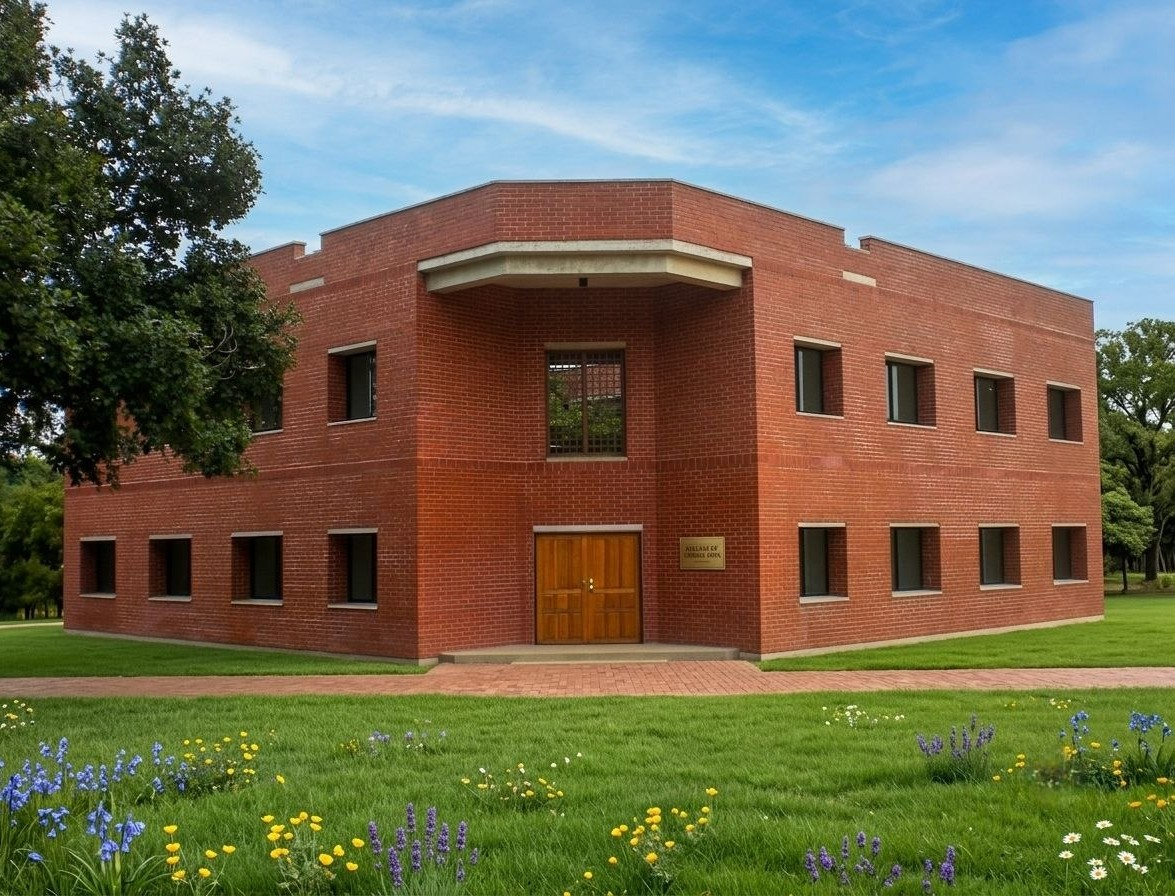
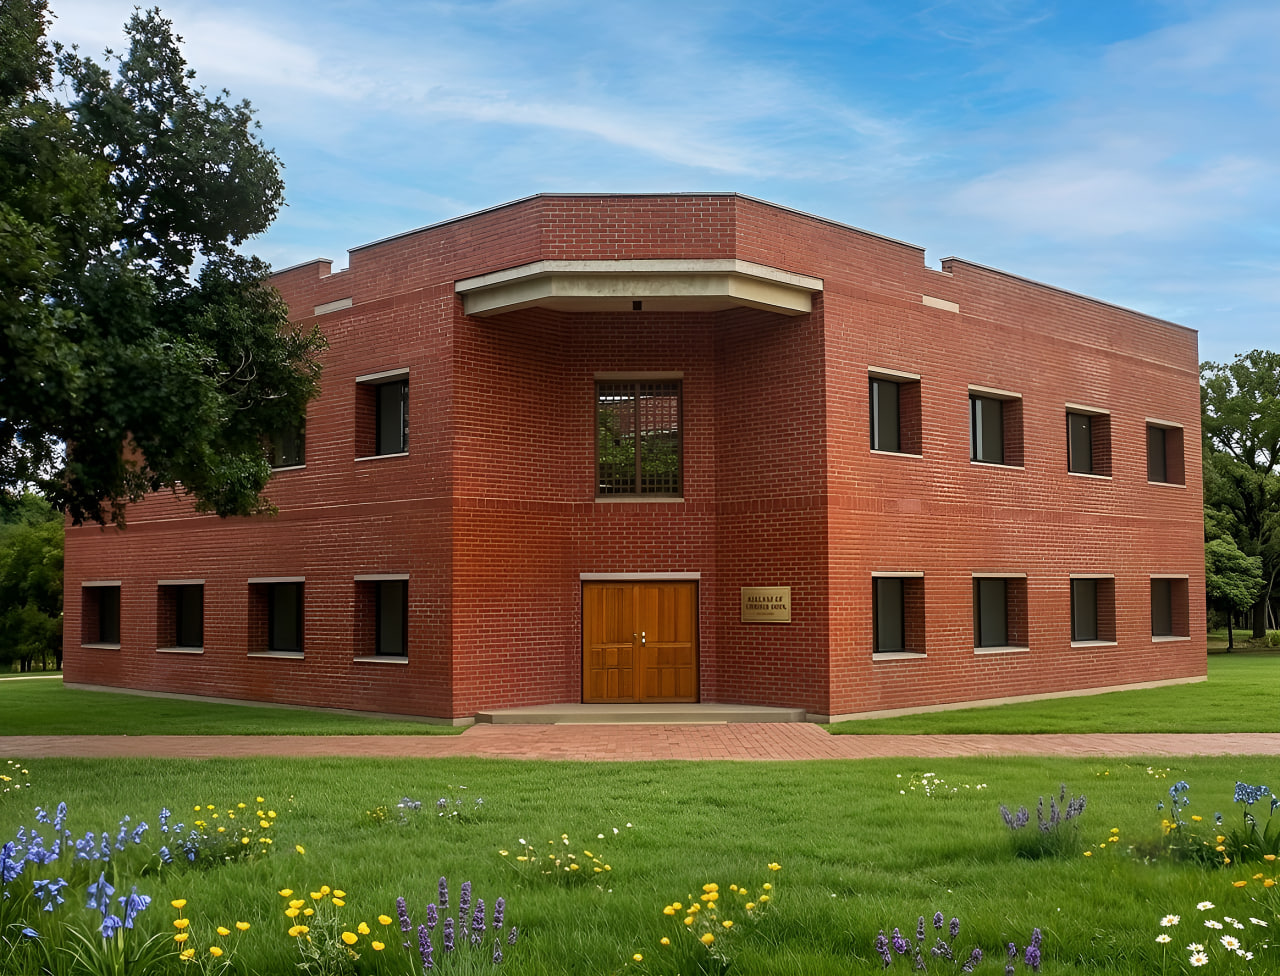
Update Lexora landing institutional branding

Changed region(s): [[0.0, 0.0, 1.0, 1.0], [0.4902, 0.5312, 0.5515, 0.5938]]

diff --git a/apps/web/src/app/page.tsx b/apps/web/src/app/page.tsx
@@ -1,8 +1,9 @@
+import Image from "next/image";
 import Link from "next/link";
 
 export default function HomePage() {
   return (
-    <main className="relative flex min-h-screen items-center justify-center overflow-hidden bg-stone-950 px-5 py-16 text-stone-50 sm:px-8">
+    <main className="relative flex min-h-screen items-center justify-center overflow-hidden bg-stone-950 px-5 py-12 pb-32 text-stone-50 sm:px-8 sm:py-16 sm:pb-36">
       <div
         aria-hidden="true"
         className="absolute inset-0 bg-cover bg-center"
@@ -10,20 +11,20 @@ export default function HomePage() {
       />
       <div
         aria-hidden="true"
-        className="absolute inset-0 bg-gradient-to-br from-stone-950/78 via-teal-950/44 to-stone-950/70"
-      />
-      <div
-        aria-hidden="true"
-        className="absolute inset-0"
-        style={{ backdropFilter: "blur(1.6px) saturate(1.1) brightness(1.04)" }}
-      />
-      <div
-        aria-hidden="true"
-        className="absolute inset-0 bg-[radial-gradient(circle_at_50%_14%,rgba(255,255,255,0.16),transparent_32%),linear-gradient(118deg,rgba(255,255,255,0.11),transparent_24%,rgba(255,255,255,0.045)_48%,transparent_72%)]"
+        className="absolute inset-0 bg-gradient-to-br from-stone-950/86 via-teal-950/60 to-stone-950/82"
       />
 
       <section className="relative z-10 mx-auto flex w-full max-w-5xl flex-col items-center text-center">
-        <p className="text-xs font-semibold uppercase tracking-[0.32em] text-amber-200 drop-shadow-[0_2px_10px_rgba(0,0,0,0.55)] sm:text-sm">
+        <Image
+          src="/images/cu-logo.png"
+          alt="University of Chittagong logo"
+          width={96}
+          height={96}
+          priority
+          className="h-20 w-20 object-contain drop-shadow-[0_4px_18px_rgba(0,0,0,0.55)] sm:h-24 sm:w-24"
+        />
+
+        <p className="mt-6 text-xs font-semibold uppercase tracking-[0.32em] text-amber-200 drop-shadow-[0_2px_10px_rgba(0,0,0,0.55)] sm:text-sm">
           Department of Law · University of Chittagong
         </p>
 
@@ -42,7 +43,7 @@ export default function HomePage() {
           Where Law Meets Learning
         </p>
 
-        <div className="mt-8 max-w-3xl space-y-5 text-base leading-8 text-stone-50 drop-shadow-[0_2px_12px_rgba(0,0,0,0.62)] sm:text-lg">
+        <div className="mt-8 max-w-4xl space-y-5 text-lg leading-9 text-stone-50 drop-shadow-[0_2px_12px_rgba(0,0,0,0.62)] sm:text-xl">
           <p>
             Lexora helps law students follow their courses, classes, attendance,
             assignments, quizzes, eligibility, results, GPA, and transcripts
@@ -58,12 +59,23 @@ export default function HomePage() {
         </div>
 
         <Link
-          className="mt-11 inline-flex rounded-full border border-amber-100/50 bg-amber-300/92 px-7 py-3 text-base font-bold text-stone-950 shadow-lg shadow-stone-950/24 backdrop-blur-sm transition hover:bg-amber-200 focus:outline-none focus:ring-2 focus:ring-amber-200 focus:ring-offset-2 focus:ring-offset-stone-950"
+          className="mt-11 inline-flex rounded-full border border-amber-100/50 bg-amber-300/92 px-7 py-3 text-base font-bold text-stone-950 shadow-lg shadow-stone-950/24 transition hover:bg-amber-200 focus:outline-none focus:ring-2 focus:ring-amber-200 focus:ring-offset-2 focus:ring-offset-stone-950"
           href="/sign-in"
         >
           Enter Lexora
         </Link>
       </section>
+
+      <footer className="absolute bottom-6 left-1/2 z-10 flex w-full max-w-md -translate-x-1/2 flex-col items-center px-5 text-center text-sm leading-6 text-stone-100 drop-shadow-[0_2px_10px_rgba(0,0,0,0.7)]">
+        <Image
+          src="/images/heat-logo.png"
+          alt="HEAT Project logo"
+          width={132}
+          height={56}
+          className="h-10 w-auto object-contain"
+        />
+        <p className="mt-2">Developed with funding from the HEAT-12211-CU Project.</p>
+      </footer>
     </main>
   );
 }